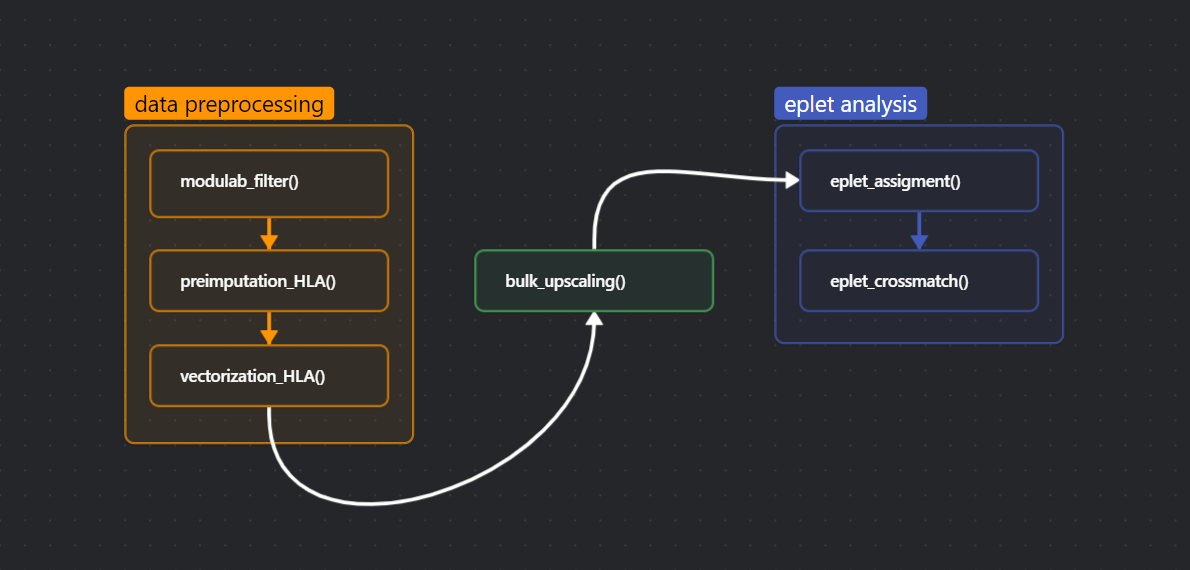
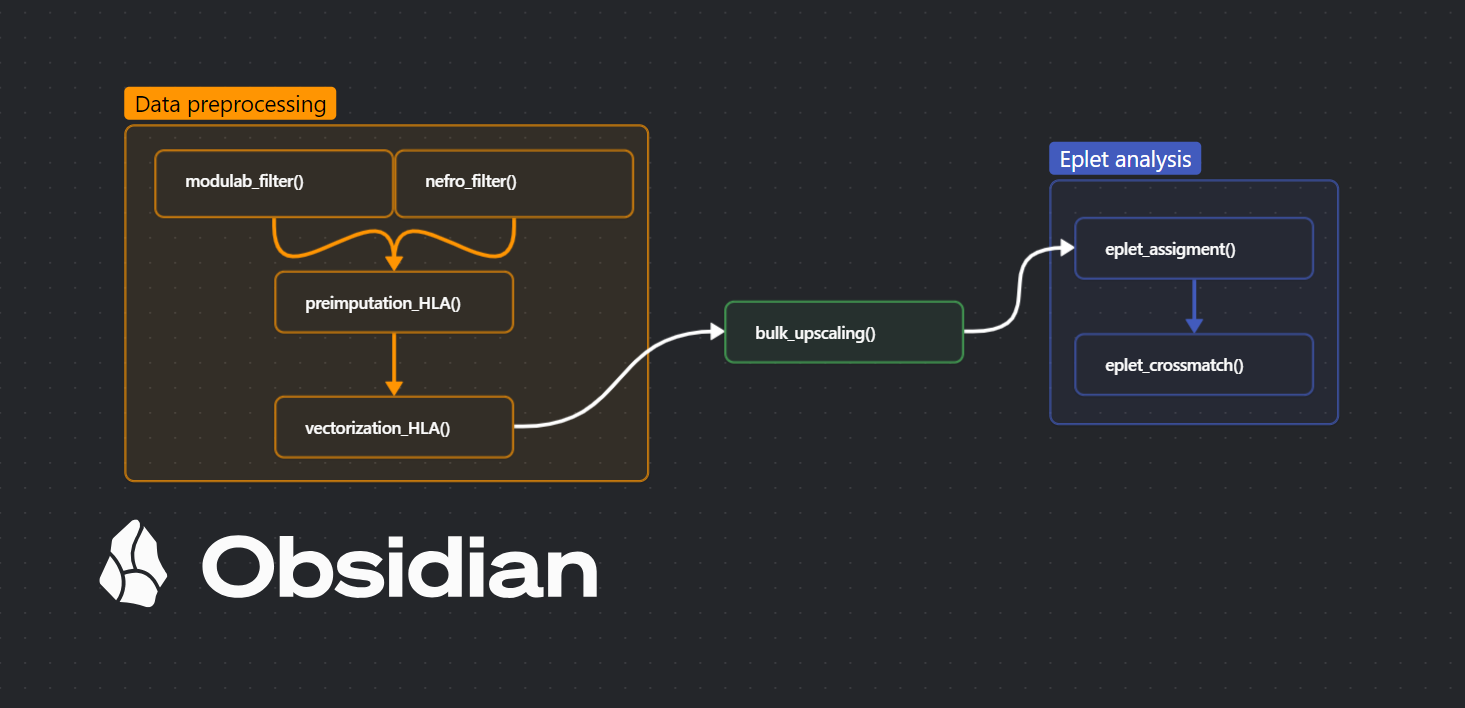
Version 0.1.3. Readme y description actualizados.

diff --git a/README.md b/README.md
@@ -17,7 +17,7 @@ Las funciones contenidas en este paquete están pensadas para realizar las sigui
     -   `upscale_typings()` requiere descargar previamente la información sobre la frecuencia de haplotipos proporcionada por NMDP de la siguiente [web](https://frequency.nmdp.org/). Una vez registrado veremos un listado de posibles archivos para descargar, es necesario seleccionar el formato .xlsx que contiene la información para los loci A, B, C, DRB1, DR345, DQB1 (HLA\-A\~C\~B\~DRB3\-4-5\~DRB1\~DQB1).
     -   `load_eplet_registry()` realiza un scrapping de la base de datos HLA Eplet Registry y descarga una tabla con el listado de eplets descritos hasta el momento si esta no existe ya de forma local. Cualquier actualización en la web HLA Eplet Registry que altere su estructura puede imposibilitar la descargar de la información de eplets necesaria en la primera ejecución de la función en un nuevo equipo. Para estos casos este paquete contiene la última versión actualizada del registro de eplets a fecha 03/03/2024, este archivo (eplets.rds) debe copiarse a la carpeta cache de la librería hlapro, normalmente localizada el directorio \~/AppData/Local/R/cache/R/hlapro/ dentro del usuario correspondiente.
 
-2.  En su versión actual (0.1.2) las funciones disponibles para el preprocesamiento de datos con tipajes HLA son `modulab_filter()` y `preimputation()`. Estas funciones trabajan en serie, la primera toma como argumento un dataframe obtenido a partir de una exportación de datos del LIS Modulab. La tabla cargada en este dataframe puede contener cualquier número de columnas, pero debe de cumplir ciertos requisitos:
+2.  En su versión actual (0.1.3) las funciones disponibles para el preprocesamiento de datos con tipajes HLA son `modulab_filter()` y `preimputation()`. Estas funciones trabajan en serie, la primera toma como argumento un dataframe obtenido a partir de una exportación de datos del LIS Modulab. La tabla cargada en este dataframe puede contener cualquier número de columnas, pero debe de cumplir ciertos requisitos:
 
     -   Debe de existir una columna con un identificador único para cada individuo y su nombre debe de ser "Número", por defecto una exportación de Modulab debería de proporcionar el número de historía clínica en una columna usando este nombre.
     -   No es necesario que los tipajes contengan información sobre todos los loci, ni que la tabla contenga las columnas para todos ellos. Sin embargo, los nombres de las columnas de los loci que deseemos incluir en el análisis deben de ser los siguiente: LOCUS A, LOCUS B, LOCUS C, LOCUS DPB1, LOCUS DQA1, LOCUS DQB1, LOCUS DRB1.
@@ -30,7 +30,7 @@ Las funciones contenidas en este paquete están pensadas para realizar las sigui
   
 ## Esquema de flujo de trabajo
 
-<a href="https://D-sierra.github.io/epletMM/"><img src="man/figures/Pipeline de análisis.png" height="500" alt="pipeline" /></a>
+<a href="https://D-sierra.github.io/epletMM/"><img src="man/figures/Pipeline de análisis.png" height="450" alt="pipeline" /></a>
 ## Instalación
 
 ```{r}
@@ -46,13 +46,22 @@ library(epletMM)
 
 ### Preprocesamiento de los datos
 
-En primer lugar nos aseguramos que nuestro archivo (.xlsx o .csv) cumple los requisitos necesarios. Cargamos el archivo lo modificamos para prepararlo para la imputación.
+El preprocesamiento dependerá del archivo de partida que vayamos a utilizar. En su versión actual (0.1.3) esta librería contiene funciones para el preprocesamiento de archivo procedentes de dos fuentes distintas:
+
+1.  `modulab_filter()`: esta función admite archivos de tipajes exportados desde Modulab. Estas tablas deben de tener siempre una tabla con IDs únicos por individuo llamada "Número", además los nombres de las columnas con los tipajes deben de ser los siguientes: "LOCUS A", "LOCUS B", "LOCUS C", "LOCUS DRB1", "LOCUS DRB345","LOCUS DQB1", "LOCUS DQA1". No es necesario que todas las columnas correspondientes a los loci estén presentes en los datos originales, aquellas que no lo esten serán creadas, asignadas el valor **NA** y más adelante serán imputadas.
+
+2.  `nefro_filter()`:esta función admite archivos de tipajes exportados desde la base de datos de nefrología. Los datos importados de esta manera estan pensados para realizar el crossmatch entre pacientes y receptores, por lo que deberán tener el tipaje de ambos. La función requiere que la tabla original contenga las columnas "NumTx" con identificador del trasplante, y "NumHistoria" con el ID único de cada receptor. Se considera que en los datos originales existe una única fila por cada par donante/receptor con las siguientes columnas de tipaje: PacHLA1", "PacHLA2", "PacHLB1", "PacHLB2", "PacHLC1", "PacHLC2", "PacHLDr1", "PacHLDr2", "PacHLDQ1", "PacHLDQ2", "PacHLDQA1", "PacHLDQA2", "Don HLA A1", "Don HLA A2", "Don HLA B1", "Don HLA B2", "Don HLA C1", "Don HLA C2", "Don HLA Dr1", "Don HLA Dr2", "Don HLA DQ1", "Don HLA DQ2", "Don HLA DQA1", "Don HLA DQA2". Como en el caso anterior, cualquier columna de tipaje que no exista será creada, poblada con el valor **NA** e imputada más adelante.
 
 ```{r}
-HLA_baja <- read_xls("HLA_baja.xls")
+#Procedimiento para datos obtenidos de exportación de modulab
+HLA_baja_modulab <- read_xls("HLA_baja_modulab.xls")
+filtered_df_modulab <- modulab_filter(HLA_baja_modulab)
+processed_data <- preimputation(filtered_df_modulab)
 
-filtered_df <- modulab_filter(HLA_baja)
-processed_data <- preimputation(filtered_df)
+#Procedimiento para datos obtenidos de exportación de la base de datos de nefro
+HLA_baja_nefro <- read_xls("HLA_baja_nefro.xls")
+filtered_df_nefro <- nefro_filter(HLA_baja_nefro)
+processed_data <- preimputation(filtered_df_nefro)
 
 mixed_reso <- processed_data[[1]]
 head(mixed_reso)
@@ -81,7 +90,8 @@ La función `preimputation()` devuelve una lista que contiene tres dataframes di
 -   processed_data[[2]]: tiene la misma estructura, pero todos los tipajes en resolución intermedia o alta han sido transformados en los equivalentes serologicos usando `hlapro:get_serology()`. Este dataframe será utilizado para realizar la imputación de alta resolución, ya que la función `hlapro::upscale_typings()`, al contrario que [HaploStats](https://www.haplostats.org/) no tiene en cuenta aquellos alelos proporcionados ya en alta resolución para realizar la imputación.
 -   processed_data[[3]]: almacena la información del control de calidad.
   
-**CONTROL DE CALLIDAD**
+**CONTROL DE CALIDAD**
+
 `preimputation()` ejecuta un control de calidad de los tipajes de baja resolución contenidos en processed_data[[2]], esto incluye aquellos filtrados desde el df original y los que han sidos imputados mediante `hlapro::getserology()` a partir de datos de resolución alta/media. La función revisa para cada columna correspondiente a un alelo que todas las filas de processed_data[[2]] contengan datos con estructura correcta (p.e. alelos HLA-A deben de tener estructura "^A\\*\\d{1,2}$", que indica que deben de seguir un patrón exacto *A\*XX* donde XX son uno o dos caracteres numericos.
 Si todas las columnas pasan correctamente el test se mostrará un mensaje indicándolo, en caso contrario se imprimirán mensajes de error que informaran que columnas no han pasado el test en su conjunto, y además se mostrará el valor o valores que no cumplen las condiciones de estructura y el número de ID ("Número") asociado para que pueda ser revisado el preprocesamiento.
 
@@ -96,16 +106,16 @@ vec[1:2]
 # [1] "A1 A32 B40 B57 Cw2 Cw6 DR7 DR11 DQ7 DQ9"
 ```
 
-HLA_vec convierte el dataframe de tipajes en una colección una lista de vectores formado por un elemento por cada individuo, estos elementos contienen el tipaje completo concatenado en una única cadena de texto y están nombrados según el ID contenido en la columna "Número" del dataframe original. Este paso es necesario ya que este será el formato de tipajes que reconocerá la función `hlapro::upscale_typings()` utilizada por `bulk_upscaling()`.
+HLA_vec convierte el dataframe de tipajes en una lista de vectores formado por un elemento por cada individuo, estos elementos contienen el tipaje completo concatenado en una única cadena de texto y están nombrados según el ID contenido en la columna "Número" del dataframe original. Este paso es necesario ya que este será el formato de tipajes que reconocerá la función `hlapro::upscale_typings()` utilizada por `bulk_upscaling()`.
 
 ### Imputación HLA alta resolución
 
-En primer lugar, debemos de conocer la localización del archivo que contiene la información de haplotipos y frecuencias descargado de NMDP, y asegurarnos de que su nombre sea "A~C~B~DRB3-4-5~DRB1\~DQB1.xlsx". Por defecto la función `bulk_upscaling()` marcará como ruta del archivo la correspondiente a la carpeta sobre la que estemos trabajando `getwd()`. Si no tuviesemos una copia de dicho archivo en esa dirección, deberemos de especificarlo meidante el argumento **haplotypes_path**.
+En primer lugar, debemos de conocer la localización del archivo que contiene la información de haplotipos y frecuencias descargado de NMDP, y asegurarnos de que su nombre sea "A\~C\~B\~DRB3-4-5\~DRB1\~DQB1.xlsx". Por defecto la función `bulk_upscaling()` marcará como ruta del archivo la correspondiente a la carpeta sobre la que estemos trabajando `getwd()`. Si no tuviesemos una copia de dicho archivo en esa dirección, deberemos de especificarlo mediante el argumento **haplotypes_path**.
 
 Esta función requiere otros dos argumentos:
 
 -   low_list: lista de vectores de baja resolución para realizar la imputación.
--   df: dataframe con información de tipajes obtenida durante el preprocesamiento. Por defecto la función bulk_upscaling sobreescribe los tipajes de caja resolución con la imputación de alta resolución, pero conserva todos los tipajes que ya consten en el dataframe proporcionado con alta resolución. Por esta razón, si queremos conservar la información en alta resolución que ya tuviesemos debemos de seleccionar el df processed_data[[1]] obtenido incialmente. Por el contrario, si queremos sobreescribir toda la información, debemos de utilizar el df processed_data[[2]], *hay que tener en cuenta que esta última opción puede producir el cambio de alelos ya tipados en alta resolución por otros distintos obtenidos mediante la imputación*.
+-   df: dataframe con información de tipajes obtenida durante el preprocesamiento. Por defecto la función bulk_upscaling sobreescribe los tipajes de baja resolución con la imputación de alta resolución, pero conserva todos los tipajes que ya consten en el dataframe proporcionado con alta resolución. Por esta razón, si queremos conservar la información en alta resolución que ya tuviesemos debemos de seleccionar el df processed_data[[1]] obtenido incialmente. Por el contrario, si queremos sobreescribir toda la información, debemos de utilizar el df processed_data[[2]], *hay que tener en cuenta que esta última opción puede producir el cambio de alelos ya tipados en alta resolución por otros distintos obtenidos mediante la imputación*.
 
 ```{r}
 hres_df <- bulk_upscaling(low_list = "low_list", df = "subdf1", haplotypes_path = getwd())
@@ -115,15 +125,23 @@ hres_df <- bulk_upscaling(low_list = "low_list", df = "subdf1", haplotypes_path 
 
 La función devuelve dos tipos de mensaje de advertencia que no impiden que el código termine su ejecución:
 
--   Al aplicar la función `hlapro::upscale_typings` el tipaje de algunos individuos puede no devolver resultados si contiene información de muchos loci o si alguno de ellos, especialmente DQ, ha sido previamente pasado a resolución serológica. En estos casos el programa elimina el tipaje correspondiente a DQB1 y repite la imputación. Si la imputación obtiene algún resultado este se guarda y se devuelve un mensaje de advertencia que indica el ID del individuo cuyo tipaje ha sido imputado ignorando el locus DQB1.
+-   Al aplicar la función `hlapro::upscale_typings` puede no devolver haplotipos compatibles con los datos proporcionados. Esto es más probable con haplotipos raros o si algún alelo, especialmente DQ, ha sido previamente pasado a resolución serológica. En estos casos el programa elimina el tipaje correspondiente a DQB1 y repite la imputación. Si la imputación obtiene algún resultado este se guarda y se devuelve un mensaje de advertencia que indica el ID del individuo cuyo tipaje ha sido imputado ignorando el locus DQB1.
 -   En el caso de que al eliminar el locus DQB1 se siga sin obtener ningún resultado tras la imputación se devuelve un mensaje que indica el ID del individuo cuyos haplotipos no hayan podido ser imputados.
 
 ### Asignación de eplets
 
 ```{r}
-hres_eplets <- assign_eplets(hres_df, verified = "Yes")
+hres_eplets <- eplet_assigment(hres_df, verified = "Yes")
 ```
 
-El dataframe proporcionado debe de contener información HLA de resolución intermedia/alta (p.e. A\*01:01), cualquier alelo en resolución baja no se tendrá en cuenta para el cálculo de eplets. La función devolverá un nuevo df que contendrá la información original más una nueva cada columna por cada alelo en el dataframe proporcionado, y que contendrá la colección de eplets asociados al alelo correspondiente. Además contendrá tres nuevas columnas que mostrarán todos los eplets únicos para los loci HLA de clase I y de clase II, así como todos los eplets únicos totales para cada uno de los individuos.
+El dataframe proporcionado debe de contener información HLA de resolución intermedia/alta (p.e. A\*01:01), cualquier alelo en resolución baja no se tendrá en cuenta para el cálculo de eplets. La función devolverá un nuevo df que contendrá la información original más una nueva columna por cada alelo en el dataframe proporcionado, y que contendrá la colección de eplets asociados al alelo correspondiente. Además contendrá tres nuevas columnas que mostrarán todos los eplets únicos para los loci HLA de clase I y de clase II, así como todos los eplets únicos totales para cada uno de los individuos.
 
 El argumento verified indica si deseamos tener en cuenta solo aquellos eplets que HLA Eplet Registry asegure que han sido confirmados por anticuerpos (verified = "Yes") o todos los eplets del registro incluidos los teóricos (verified = "All")
+
+### Virtual eplet crossmatch
+
+```{r}
+eplets_MM <- eplet_crossmatch(hres_eplets)
+```
+
+El dataframe de entrada debe de ser obtenido mediante la función `eplet_assigment()` o tener la misma estructura de datos, con una columna por cada alelo A, B, C, DRB1, DRB345, DQB1 y DQA1, con los eplets únicos correspondientes a cada uno de ellos. La función devuelve por cada loci (A, B, C... ) dos columnas, la primera contiene el número de eplets presentes en el donante que no se encuentran en el receptor, y la segunda el listado de esos eplets. Esto mismo se repite para el total de eplets en los loci HLA de clase I, de clase II y para la totalidad del tipaje. El dataframe de salida contiene además una puntuación de riesgo del MM calculada con la fórmula de la librería `hlaR` y que utiliza el número de MM de eplets en los alelos DRB1, DRB345, DQB1 y DQA1.
